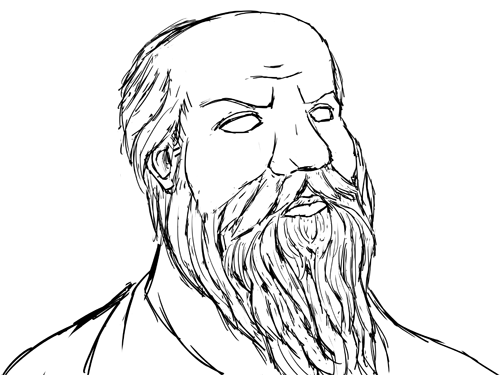
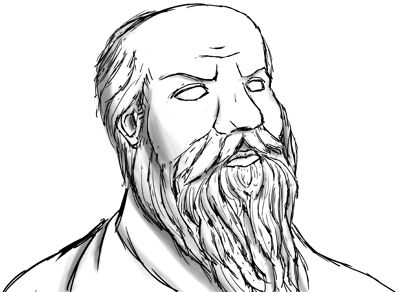
Added confucius imgs, tweaked portrait constants.

Changed region(s): [[0.06, 0.0, 0.9, 1.0], [0.9, 0.9247, 1.0, 1.0], [0.0, 0.9247, 0.06, 1.0]]

diff --git a/Main/src/org/discontinuous/discgame/contestants/Confucius.java b/Main/src/org/discontinuous/discgame/contestants/Confucius.java
@@ -67,14 +67,10 @@ public class Confucius extends Contestant {
         // Set up Arlene's combos
         this.set_combo(new Combo(combo_list));
 
-        Portrait portrait = new Portrait(this, new Texture(Gdx.files.internal("img/arlene-combos.png")), screen_width - 290,0, 300, 375, screen_width/2 - 250, 700, screen_width - 280, 250, 520, "Confucius\n" +
-                "J.D. University of New Oxford\n" +
-                "Elecantos Legal Group\n" +
-                "Professor Emeritus, Harvard Mars Law Adjunct\n\n" +
-                "When she's not preparing for a major case or incinerating revenant souls, she relishes dishing out " +
-                "verbal suplexes upon opposing counsel or unruly law students.  " +
-                "Her fearsome reputation as both sorceror and lawyer means that few people cross her, professionally or personally.");
-        portrait.setImg(new Texture(Gdx.files.internal("img/arlene.png")));
+        Portrait portrait = new Portrait(this, new Texture(Gdx.files.internal("img/arlene-combos.png")), screen_width - 290,0, 400, 270, screen_width/2 - 250, 700, screen_width - 280, 250, 520, "Confucius\n" +
+                "It's motherfuggin Confucius\n");
+        portrait.setImg(new Texture(Gdx.files.internal("img/confucius.png")));
+        portrait.img.flip(true, false);
         //portrait.setContestant(arlene);
         this.set_portrait(portrait);
 

diff --git a/Main/src/org/discontinuous/discgame/contestants/Socrates.java b/Main/src/org/discontinuous/discgame/contestants/Socrates.java
@@ -68,7 +68,7 @@ public class Socrates extends Contestant {
         // Set up Socrates' combos
         this.set_combo(new Combo(combo_list));
 
-        Portrait portrait = new Portrait(this, new Texture(Gdx.files.internal("img/yi-combos.png")), -120, 0, 500, 375, screen_width/2 - 250, 700, 220, 250, 500, "Socrates\n" +
+        Portrait portrait = new Portrait(this, new Texture(Gdx.files.internal("img/yi-combos.png")), -60, 0, 400, 292, screen_width/2 - 250, 700, 220, 250, 500, "Socrates\n" +
                 "Nobody fucks with Socrates and gets away with it.\n" +
                 "\n" +
                 "Nobody.\n" +

diff --git a/Desktop/src/org/discontinuous/discgame/DesktopStarter.java b/Desktop/src/org/discontinuous/discgame/DesktopStarter.java
@@ -11,8 +11,8 @@ public class DesktopStarter {
         LwjglApplicationConfiguration cfg = new LwjglApplicationConfiguration();
         cfg.title = "Discontinuity";
         cfg.useGL20 = true;
-        cfg.width = 1920;
-        cfg.height = 1080;
+        cfg.width = 960;
+        cfg.height = 540;
         cfg.resizable = true;
         new LwjglApplication(new DiscGame(), cfg);
     }
